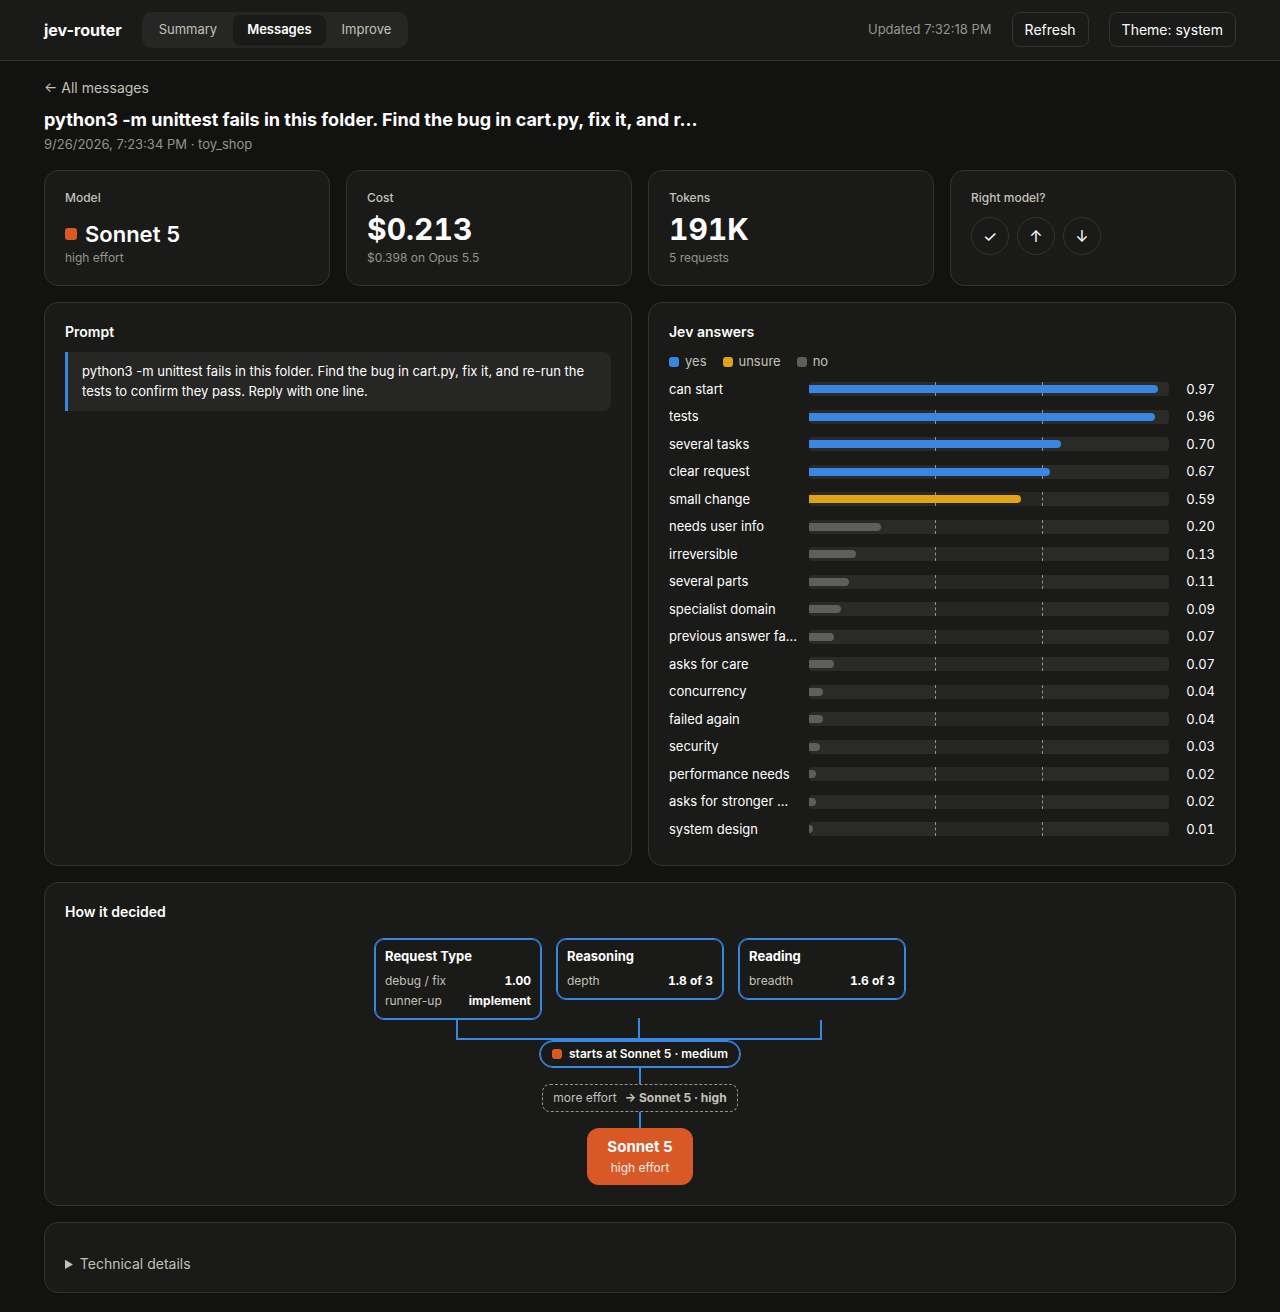
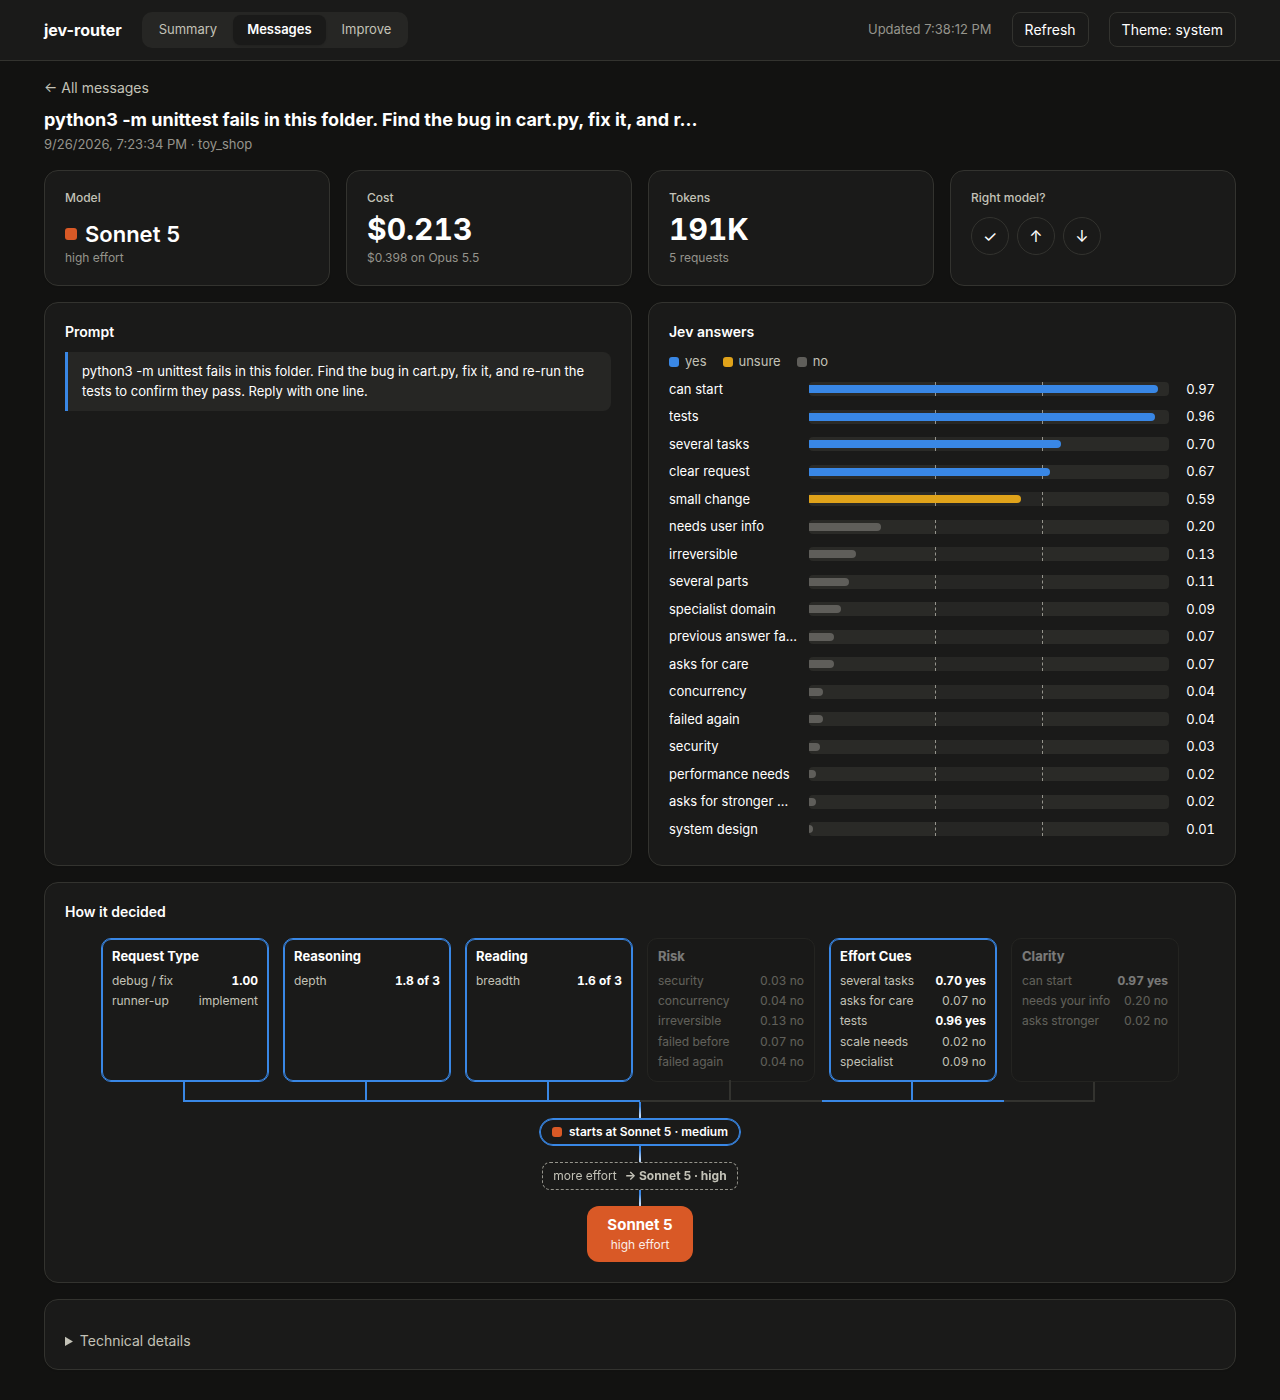
Dashboard: connectors meet every card, flowing animation, all v2 checks shown
- Cards in a row stretch to equal height, so each connector line starts at
  its card (shorter cards used to leave a gap; affected the tree view too).
- The figure's steps appear top to bottom once per opened message (not on
  the 30 s refresh) and a pulse flows down the lit lines; both are off
  under prefers-reduced-motion.
- v2 shows its other inputs as three more cards, lit only when one of their
  checks fired or was unsure: Risk (security, concurrency, irreversible,
  failed before/again), Effort cues (several tasks, care, tests, scale,
  specialist) and Clarity (can start, needs your info, asks stronger).
- Message page screenshot refreshed.

diff --git a/src/dashboard.html b/src/dashboard.html
@@ -187,6 +187,14 @@ td.r, th.r { text-align: right; font-variant-numeric: tabular-nums; white-space:
 .mid .dot.m { outline: 2px solid var(--text); outline-offset: 2px; margin: 0 3px; }
 .rail { font-size: 12px; color: var(--text-2); display: flex; align-items: center; gap: 8px; border: 1px dashed var(--muted); border-radius: 8px; padding: 4px 10px; }
 .final-box { color: #fff; border-radius: 12px; padding: 8px 20px; font-weight: 650; font-size: 15px; text-align: center; }
+/* Equal-height cards in a row, so every connector line meets its card. */
+.flow .fcell > .tcard { flex: 1; }
+/* A pulse flows down the lit lines; steps appear top to bottom once per message. */
+.flow .stem.on { background: linear-gradient(to bottom, var(--accent) 0 30%, color-mix(in srgb, var(--accent) 30%, #fff) 50%, var(--accent) 70% 100%); background-size: 100% 300%; animation: flow-down 1.4s linear infinite; }
+@keyframes flow-down { from { background-position: 0 100%; } to { background-position: 0 0; } }
+.flow-in.enter > * { animation: flow-step .4s ease-out both; animation-delay: calc(var(--i, 0) * 120ms); }
+@keyframes flow-step { from { opacity: 0; transform: translateY(-6px); } }
+@media (prefers-reduced-motion: reduce) { .flow .stem.on, .flow-in.enter > * { animation: none; } }
 .final-box span { display: block; font-weight: 400; font-size: 12px; opacity: .9; }
 .kv { display: grid; grid-template-columns: max-content 1fr; gap: 4px 14px; font-size: 13px; }
 .kv dt { color: var(--text-2); }
@@ -610,13 +618,30 @@ const RAIL = [["unsure between", "unsure type, harder one"], ["reasoning depth",
   ["asks for tests", "tests, more effort"], ["not clearly simple", "not clearly simple, no Haiku"], ["you asked", "you asked for it"], ["asks for a stronger", "asked for stronger"],
   ["irreversible", "irreversible rule"], ["needs clarification: cap -> sonnet", "unclear, Sonnet asks"], ["trees disagree", "trees disagree +1"], ["auto-tuning", "tuning nudge"], ["needs clarification", "unclear, Haiku asks"], ["security", "security rule"],
   ["concurrency", "concurrency rule"], ["last answer", "last answer failed"], ["context tokens", "long chat, no downgrade"]];
-const FLOWQ = { ...QSHORT, perf: "scale needs", prior_failed: "failed before", open_ended: "system design" };
+const FLOWQ = { ...QSHORT, perf: "scale needs", prior_failed: "failed before", open_ended: "system design", repeat_failure: "failed again",
+  compound: "several tasks", asks_quality: "asks for care", unfamiliar_domain: "specialist", can_start: "can start", missing_user_info: "needs your info",
+  asks_stronger_model: "asks stronger" };
 const shortRung = (r) => `${fam(r).label}${effortOf(r) ? ` · ${effortOf(r)}` : ""}`;
 
 // The notebook's forest figure: each tree's path, votes grouped by option, the middle vote,
 // then any rule that moved it, then the final choice. Trees that voted for the middle are lit.
+// Number the figure's steps for the staggered entry; play it only when a new message opens,
+// not on the 30 s refresh.
+let flowShown = null;
+function animateFlow(fig, id) {
+  const inner = fig.querySelector(".flow-in");
+  [...inner.children].forEach((c, i) => c.style.setProperty("--i", i));
+  if (flowShown !== id) inner.classList.add("enter");
+  flowShown = id;
+  return fig;
+}
+
 function decisionFlow(d) {
-  if (d.rules === "v2") return decisionFlowV2(d);
+  if (d.rules === "v2") return animateFlow(decisionFlowV2(d), d.id);
+  return animateFlow(decisionFlowV1(d), d.id);
+}
+
+function decisionFlowV1(d) {
   const order = (r) => S.meta.ladder.findIndex((l) => l.name === r);
   const trees = Object.entries(d.trees), median = d.median || (d.why[0] || "").split(": ")[1];
   const groups = [...new Set(trees.map(([, t]) => t.vote))].sort((a, b) => order(a) - order(b));
@@ -653,11 +678,20 @@ function decisionFlow(d) {
 // v2: request type + reasoning depth + reading breadth -> starting option -> rules -> final.
 // Same figure parts as the tree view: three lit cards, one stem, a pill, rule rails, the final.
 function decisionFlowV2(d) {
-  const st = d.jev.structured || {}, i = d.intent || {};
+  const st = d.jev.structured || {}, i = d.intent || {}, a = d.jev.answers || {}, th = S.meta.thresholds;
   const start = ((d.why[0] || "").match(/start at (\S+)$/) || [])[1];
   const level = (k) => { const x = (st[k] || {}).score; return Number.isFinite(x) ? `${x.toFixed(1)} of 3` : "–"; };
-  const box = (title, rows) => h("div", { class: "fcell on" }, h("div", { class: "tcard on" }, h("b", { text: title }),
-    rows.map(([k, v]) => h("div", { class: "tq" }, h("span", { text: k }), h("span", { class: "a yes", text: v })))));
+  const row = (label, v, cls, title) => h("div", { class: "tq", title: title || label }, h("span", { text: label }), h("span", { class: `a${cls ? ` ${cls}` : ""}`, text: v }));
+  // Yes/no checks, same marks as the tree view: bold yes, dashed "?" when unsure.
+  const check = (k) => {
+    const p = a[k];
+    if (!Number.isFinite(p)) return null;
+    const cls = p > th.clear_yes ? "yes" : p >= th.clear_no ? "unsure" : "";
+    return row(FLOWQ[k] || k, `${p.toFixed(2)} ${cls === "yes" ? "yes" : cls ? "?" : "no"}`, cls, QLABEL[k]);
+  };
+  const box = (title, rows, on) => h("div", { class: `fcell${on ? " on" : ""}` }, h("div", { class: `tcard ${on ? "on" : "off"}` }, h("b", { text: title }), rows));
+  // A check card is lit when one of its checks fired (yes) or was unsure.
+  const group = (title, keys, lit = (k, p) => p >= th.clear_no) => box(title, keys.map(check), keys.some((k) => Number.isFinite(a[k]) && lit(k, a[k])));
   const rails = (d.why || []).slice(1).map((w) => {
     const label = (RAIL.find(([k]) => w.startsWith(k)) || [null, w.split(":")[0]])[1], to = [...w.matchAll(/-> ([a-z0-9.\-]+(?:\/[a-z]+)?)/g)].pop();
     return [h("div", { class: "stem on" }), h("div", { class: "rail", title: reasonSentence(w) }, h("span", { text: label }), to ? h("b", { text: `→ ${shortRung(to[1])}` }) : null)];
@@ -666,10 +700,14 @@ function decisionFlowV2(d) {
   return h("div", { class: "flow", role: "img", "aria-label": (d.why || []).map(reasonSentence).join(" ") },
     h("div", { class: "flow-in" },
       h("div", { class: "frow" },
-        box("Request type", [[INTENT_LABEL[i.choice] || i.choice || "?", (i.confidence ?? 0).toFixed(2)], ["runner-up", INTENT_LABEL[i.runner_up] || i.runner_up || "–"]]),
-        box("Reasoning", [["depth", level("depth")]]),
-        box("Reading", [["breadth", level("breadth")]])),
-      start ? [h("span", { class: "pill on" }, h("i", { class: "sw", style: `background:${fam(start).color}` }), `starts at ${shortRung(start)}`)] : null,
+        box("Request type", [row(INTENT_LABEL[i.choice] || i.choice || "?", (i.confidence ?? 0).toFixed(2), "yes", "Jev's pick and its confidence"), row("runner-up", INTENT_LABEL[i.runner_up] || i.runner_up || "–")], true),
+        box("Reasoning", [row("depth", level("depth"), "yes", "0 lookup · 1 straightforward · 2 multi-step · 3 trade-offs or subtle")], true),
+        box("Reading", [row("breadth", level("breadth"), "yes", "0 none · 1 one file · 2 several files · 3 much of the repo")], true),
+        group("Risk", ["security", "concurrency", "irreversible", "prior_failed", "repeat_failure"]),
+        group("Effort cues", ["compound", "asks_quality", "tests", "perf", "unfamiliar_domain"]),
+        group("Clarity", ["can_start", "missing_user_info", "asks_stronger_model"], (k, p) => (k === "can_start" ? p < th.clear_yes : p >= th.clear_no))),
+      h("div", { class: "stem on" }),
+      start ? h("span", { class: "pill on" }, h("i", { class: "sw", style: `background:${fam(start).color}` }), `starts at ${shortRung(start)}`) : null,
       rails,
       h("div", { class: "stem on" }),
       h("div", { class: "final-box", style: `background:${fam(rung).color}` }, fam(rung).label, h("span", { text: effortOf(rung) ? `${effortOf(rung)} effort` : "no effort setting" }))));
